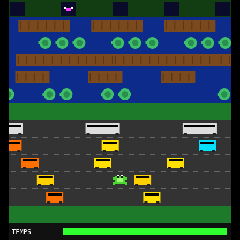
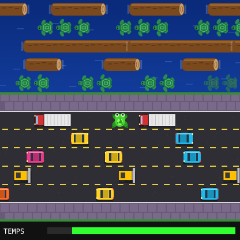
La Granota: un riu que es mou, tortugues amb closca i cotxes de debò
Era tot rectangles i rodones de colors plans: el riu, un blau llis; els
cotxes, un rectangle amb una ratlla negra; la granota, quadrats verds.

Ara el riu té ones que corren, els troncs tenen escorça i anells a les
puntes, les tortugues tenen closca, cap i aletes que neden, i quan es
submergeixen només se'n veuen les bombolles. La carretera és d'asfalt
amb ratlles grogues, i els cotxes, els camions i els tractors tenen
vidres, rodes, fars i llums de darrere, i miren cap on van. Les casetes
d'arribada són badies amb un nenúfar dins d'una bardissa, la mosca té
ales, i la granota mira cap on salta i estira les potes. Les mides de
tot són les mateixes.

Claude-Session: https://claude.ai/code/session_01KrPPCHVvtTXjrWEZj9T731

diff --git a/frogger.html b/frogger.html
@@ -85,7 +85,7 @@ const LANES=[
   {row:10,kind:'dozer',  len:1, dir: 1, sp:0.030, n:3},
   {row:11,kind:'car',    len:1, dir:-1, sp:0.045, n:3}
 ];
-const CARCOL={car:['#ffe000','#00e0ff','#ff7000'],truck:['#dddddd'],dozer:['#ffd000']};
+const CARCOL={car:['#ffd020','#20b8e8','#ff6a20','#e83a8a'],truck:['#dddddd'],dozer:['#ffc000']};
 
 let score=0,level=1,lives=3,state='play',paused=false,extraGiven=false;
 let homes,frog,timeLeft,maxRow,fly,lanes,startTime;
@@ -180,6 +180,7 @@ function hop(dx,dy){
   const nrow=frog.row+dy, nx=frog.x+dx*CELL;
   if(nrow>12||nrow<0||nx<CELL/2-1||nx>W-CELL/2+1)return;
   frog.hop={fx:frog.x,fy:rowY(frog.row),tx:nx,ty:rowY(nrow),t:0,row:nrow};
+  frog.ang=dy<0?0:dy>0?Math.PI:dx>0?Math.PI/2:-Math.PI/2;   // mira cap on salta
   sndHop();
 }
 function landing(){
@@ -236,40 +237,101 @@ function update(dt){
 }
 
 // ===== DIBUIX =====
-function drawFrog(px,py,squash){
+// Vist des de dalt: el riu amb ones que corren, troncs amb escorça i anells
+// a les puntes, tortugues amb closca que neden, una carretera d'asfalt amb
+// cotxes, camions i tractors de debò (amb vidres, rodes i llums), i la
+// granota mira cap on salta. Abans eren rectangles i rodones.
+function drawFrog(px,py,squash,ang=0,salta=0){
+  const cy=py+CELL/2;
   if(squash){
-    x.fillStyle='#ff4040';x.beginPath();x.arc(px,py+16,10,0,6.283);x.fill();
-    x.fillStyle='#fff';x.font='12px monospace';x.textAlign='center';x.fillText('✱',px,py+20);
+    // aixafada o ofegada: una taca i uns cercles
+    x.fillStyle='rgba(60,200,60,.85)';
+    for(const[dx,dy,r]of[[0,0,9],[-8,-5,4],[8,-6,4],[-7,7,4],[8,6,4]]){x.beginPath();x.arc(px+dx,cy+dy,r,0,7);x.fill()}
+    x.fillStyle='#fff';x.beginPath();x.arc(px-3,cy-2,2.5,0,7);x.arc(px+3,cy-2,2.5,0,7);x.fill();
     return;
   }
-  const g='#4ad830';
-  x.fillStyle=g;
-  x.fillRect(px-9,py+9,18,14);          // cos
-  x.fillRect(px-13,py+11,4,5);x.fillRect(px+9,py+11,4,5);   // potes davanteres
-  x.fillRect(px-13,py+19,4,6);x.fillRect(px+9,py+19,4,6);   // potes del darrere
-  x.fillStyle='#9fff70';x.fillRect(px-6,py+12,12,7);
-  x.fillStyle='#fff';x.fillRect(px-6,py+7,5,5);x.fillRect(px+1,py+7,5,5);
-  x.fillStyle='#000';x.fillRect(px-5,py+9,3,3);x.fillRect(px+2,py+9,3,3);
+  x.save();x.translate(px,cy);x.rotate(ang);
+  const e=salta?6:0;
+  // potes: les del darrere s'estiren quan salta
+  x.fillStyle='#2a9a20';
+  x.beginPath();x.ellipse(-9,7+e,4,6+e,.5,0,7);x.fill();x.beginPath();x.ellipse(9,7+e,4,6+e,-.5,0,7);x.fill();
+  x.beginPath();x.ellipse(-9,-5,3,5,-.6,0,7);x.fill();x.beginPath();x.ellipse(9,-5,3,5,.6,0,7);x.fill();
+  x.fillStyle='#1a7a14';for(const s of[-1,1]){x.fillRect(s*12-2,11+e*1.6,4,3);x.fillRect(s*11-2,-10,3,3)}
+  // el cos, amb taques
+  x.fillStyle='#4ad830';x.beginPath();x.ellipse(0,1,9,11,0,0,7);x.fill();
+  x.fillStyle='#8aff60';x.beginPath();x.ellipse(0,3,5,6,0,0,7);x.fill();
+  x.fillStyle='#2a9a20';x.beginPath();x.arc(-4,5,1.5,0,7);x.arc(4,7,1.5,0,7);x.arc(0,-2,1.3,0,7);x.fill();
+  // els ulls, a dalt de tot
+  for(const s of[-1,1]){x.fillStyle='#4ad830';x.beginPath();x.arc(s*5,-8,4,0,7);x.fill();
+    x.fillStyle='#fff';x.beginPath();x.arc(s*5,-8.5,2.8,0,7);x.fill();x.fillStyle='#000';x.beginPath();x.arc(s*5,-9,1.5,0,7);x.fill()}
+  x.restore();
+}
+// un vehicle vist des de dalt, mirant cap a on va (dir 1: a la dreta)
+function drawVehicle(kind,o,y,col,dir){
+  const x0=o.x,w=o.w,y0=y+6,h=CELL-12;
+  x.save();x.translate(x0+w/2,y+CELL/2);x.scale(dir,1);x.translate(-(x0+w/2),-(y+CELL/2));
+  // l'ombra
+  x.fillStyle='rgba(0,0,0,.35)';x.fillRect(x0+2,y0+3,w-2,h);
+  if(kind==='truck'){
+    // remolc i cabina
+    x.fillStyle='#2a2a2a';x.fillRect(x0+4,y0-2,6,3);x.fillRect(x0+4,y0+h-1,6,3);x.fillRect(x0+w-14,y0-2,6,3);x.fillRect(x0+w-14,y0+h-1,6,3);
+    x.fillStyle='#e8e8e8';x.fillRect(x0+1,y0,w-18,h);
+    x.fillStyle='#c0c0c0';for(let i=x0+5;i<x0+w-18;i+=6)x.fillRect(i,y0+1,1,h-2);
+    x.fillStyle='#d83030';x.fillRect(x0+w-16,y0+1,14,h-2);
+    x.fillStyle='#8ad0ff';x.fillRect(x0+w-6,y0+3,3,h-6);
+    x.fillStyle='#ffe080';x.fillRect(x0+w-2,y0+1,2,3);x.fillRect(x0+w-2,y0+h-4,2,3);
+  }else if(kind==='dozer'){
+    // un tractor amb la pala al davant
+    x.fillStyle='#2a2a2a';x.fillRect(x0+3,y0-2,10,4);x.fillRect(x0+3,y0+h-2,10,4);x.fillRect(x0+16,y0,6,3);x.fillRect(x0+16,y0+h-3,6,3);
+    x.fillStyle=col;x.fillRect(x0+2,y0+2,w-10,h-4);
+    x.fillStyle='#3a3a3a';x.fillRect(x0+5,y0+5,8,h-10);
+    x.fillStyle='#bdbdbd';x.fillRect(x0+w-6,y0-3,4,h+6);x.fillStyle='#8a8a8a';x.fillRect(x0+w-8,y0+2,2,h-4);
+  }else{
+    // un cotxe: carrosseria, vidres, rodes i fars
+    x.fillStyle='#1a1a1a';x.fillRect(x0+4,y0-2,6,3);x.fillRect(x0+4,y0+h-1,6,3);x.fillRect(x0+w-10,y0-2,6,3);x.fillRect(x0+w-10,y0+h-1,6,3);
+    x.fillStyle=col;x.beginPath();x.roundRect(x0+1,y0,w-2,h,4);x.fill();
+    x.fillStyle='rgba(255,255,255,.35)';x.fillRect(x0+3,y0+1,w-8,2);
+    x.fillStyle='#24344a';x.fillRect(x0+w-12,y0+3,4,h-6);x.fillRect(x0+6,y0+3,3,h-6);
+    x.fillStyle='rgba(0,0,0,.2)';x.fillRect(x0+10,y0+3,w-22,h-6);
+    x.fillStyle='#fff6b0';x.fillRect(x0+w-3,y0+1,2,3);x.fillRect(x0+w-3,y0+h-4,2,3);
+    x.fillStyle='#ff4040';x.fillRect(x0+1,y0+1,1.5,3);x.fillRect(x0+1,y0+h-4,1.5,3);
+  }
+  x.restore();
 }
 function draw(){
-  // fons per zones
+  const ara=performance.now();
   x.fillStyle='#000';x.fillRect(0,0,W,H+BAR);
-  x.fillStyle='#0d2b8a';x.fillRect(0,rowY(1),W,CELL*5);      // riu
-  x.fillStyle='#1d7a2a';x.fillRect(0,rowY(6),W,CELL);        // mitjana
-  x.fillStyle='#333';x.fillRect(0,rowY(7),W,CELL*5);         // carretera
-  x.fillStyle='#1d7a2a';x.fillRect(0,rowY(12),W,CELL);       // sortida
-  // marques de la carretera
-  x.fillStyle='#666';
+  // el riu, amb ones que corren
+  const gr=x.createLinearGradient(0,rowY(1),0,rowY(6));gr.addColorStop(0,'#0a2a7a');gr.addColorStop(1,'#123c9a');
+  x.fillStyle=gr;x.fillRect(0,rowY(1),W,CELL*5);
+  x.fillStyle='rgba(140,190,255,.22)';
+  for(let r=1;r<=5;r++)for(let i=0;i<8;i++){const wx=((i*61+r*37+ara*.02*(r%2?1:-1))%(W+30)+W+30)%(W+30)-15;x.fillRect(wx,rowY(r)+6+(i*11)%20,12,1.5)}
+  // la mitjana i la sortida: voravia de rajoles amb herba
+  for(const r of[6,12]){
+    x.fillStyle='#6a5a7a';x.fillRect(0,rowY(r),W,CELL);
+    x.fillStyle='#7a6a8a';for(let i=0;i<COLS*2;i++)x.fillRect(i*16+1,rowY(r)+1,14,CELL/2-2),x.fillRect(i*16+9,rowY(r)+CELL/2+1,14,CELL/2-2);
+    x.fillStyle='#3a8a3a';x.fillRect(0,rowY(r)+(r===6?0:CELL-4),W,4);
+  }
+  // la carretera: asfalt, vorals i ratlles discontínues
+  x.fillStyle='#2e2e34';x.fillRect(0,rowY(7),W,CELL*5);
+  x.fillStyle='rgba(255,255,255,.04)';for(let i=0;i<70;i++)x.fillRect((i*53)%W,rowY(7)+(i*29)%(CELL*5),2,2);
+  x.fillStyle='#d8d8d8';x.fillRect(0,rowY(7),W,2);x.fillRect(0,rowY(12)-2,W,2);
+  x.fillStyle='#e8d040';
   for(let r=8;r<=11;r++)for(let i=0;i<COLS*2;i++)x.fillRect(i*20+4,rowY(r)-1,10,2);
-  // casetes d'arribada
-  x.fillStyle='#123d12';x.fillRect(0,0,W,CELL);
+  // les casetes d'arribada: una bardissa amb cinc badies d'aigua i un nenúfar
+  x.fillStyle='#1d6a24';x.fillRect(0,0,W,CELL);
+  x.fillStyle='#2a8a30';for(let i=0;i<W;i+=8)x.beginPath(),x.arc(i+4,4+(i%16?2:0),6,0,7),x.fill();
   for(let i=0;i<5;i++){
     const cx=HOME_COLS[i]*CELL;
-    x.fillStyle='#0a0a2a';x.fillRect(cx+2,4,CELL-4,CELL-6);
-    if(homes[i])drawFrog(cx+CELL/2,-2,false);
+    x.fillStyle='#0d2b7a';x.fillRect(cx+3,6,CELL-6,CELL-6);
+    x.fillStyle='#3aa04a';x.beginPath();x.arc(cx+CELL/2,CELL/2+4,9,.4,Math.PI*2-.1);x.lineTo(cx+CELL/2,CELL/2+4);x.fill();
+    if(homes[i])drawFrog(cx+CELL/2,2,false);
     else if(fly&&fly.idx===i){
-      x.fillStyle='#ff40ff';x.fillRect(cx+CELL/2-5,14,10,7);
-      x.fillStyle='#fff';x.fillRect(cx+CELL/2-8,13,4,3);x.fillRect(cx+CELL/2+4,13,4,3);
+      // la mosca, amb ales que bateguen
+      const fx=cx+CELL/2,fy=17,b=Math.floor(ara/60)%2;
+      x.fillStyle='rgba(220,240,255,.8)';x.beginPath();x.ellipse(fx-4,fy-2-b,4,2.5,-.4,0,7);x.ellipse(fx+4,fy-2-b,4,2.5,.4,0,7);x.fill();
+      x.fillStyle='#2a2a2a';x.beginPath();x.ellipse(fx,fy,3,5,0,0,7);x.fill();
+      x.fillStyle='#ff3030';x.fillRect(fx-2,fy-5,1.5,1.5);x.fillRect(fx+.5,fy-5,1.5,1.5);
     }
   }
   // objectes de cada carril
@@ -277,36 +339,51 @@ function draw(){
     for(const o of laneObjs(l)){
       const y=rowY(l.row);
       if(l.kind==='log'){
-        x.fillStyle='#7a4a1e';x.fillRect(o.x,y+5,o.w,CELL-10);
-        x.fillStyle='#5c3616';for(let i=0;i<o.w;i+=16)x.fillRect(o.x+i+3,y+8,2,CELL-16);
+        // un tronc: escorça, anells a les puntes i una mica d'aigua que esquitxa
+        x.fillStyle='rgba(255,255,255,.18)';x.fillRect(o.x-3,y+8,3,CELL-16);x.fillRect(o.x+o.w,y+8,3,CELL-16);
+        x.fillStyle='#7a4a1e';x.beginPath();x.roundRect(o.x,y+5,o.w,CELL-10,8);x.fill();
+        x.fillStyle='#9a6430';x.fillRect(o.x+4,y+7,o.w-8,3);
+        x.fillStyle='#5c3616';for(let i=8;i<o.w-8;i+=11)x.fillRect(o.x+i,y+12+(i%3),7,1.5);
+        x.fillStyle='#c8a070';x.beginPath();x.ellipse(o.x+o.w-5,y+CELL/2,4,CELL/2-6,0,0,7);x.fill();
+        x.strokeStyle='#8a6030';x.lineWidth=1;x.beginPath();x.ellipse(o.x+o.w-5,y+CELL/2,2,5,0,0,7);x.stroke();
       }else if(l.kind==='turtle'){
         const d=turtleDown(l,o.i);
-        if(d===2)continue;
-        for(let i=0;i<l.len;i++){
-          const tx=o.x+i*CELL+CELL/2;
-          x.fillStyle=d===1?'#2a7a4a':'#3fbf6a';
-          x.beginPath();x.arc(tx,y+CELL/2,11,0,6.283);x.fill();
-          x.fillStyle=d===1?'#1d5c36':'#2a8f4e';
-          x.beginPath();x.arc(tx,y+CELL/2,6,0,6.283);x.fill();
-          x.fillStyle=d===1?'#2a7a4a':'#3fbf6a';x.fillRect(tx-13,y+CELL/2-3,4,6);
+        if(d===2){
+          // sota l'aigua: només es veuen les bombolles
+          x.fillStyle='rgba(180,220,255,.5)';for(let i=0;i<l.len;i++){const tx=o.x+i*CELL+CELL/2;x.beginPath();x.arc(tx-3,y+CELL/2,2,0,7);x.arc(tx+4,y+CELL/2+3,1.5,0,7);x.fill()}
+          continue;
         }
+        x.globalAlpha=d===1?.55:1;
+        for(let i=0;i<l.len;i++){
+          const tx=o.x+i*CELL+CELL/2,ty=y+CELL/2,nada=Math.sin(ara/180+i)*2;
+          // aletes, cap i closca (miren cap on neden: a l'esquerra)
+          x.fillStyle='#2a8a50';
+          x.beginPath();x.ellipse(tx-6,ty-9-nada,3,5,.6,0,7);x.ellipse(tx-6,ty+9+nada,3,5,-.6,0,7);x.ellipse(tx+7,ty-8+nada,2.5,4,-.6,0,7);x.ellipse(tx+7,ty+8-nada,2.5,4,.6,0,7);x.fill();
+          x.beginPath();x.arc(tx-12,ty,4,0,7);x.fill();
+          x.fillStyle='#000';x.fillRect(tx-14,ty-2,1.5,1.5);x.fillRect(tx-14,ty+1,1.5,1.5);
+          x.fillStyle=d===1?'#2a6a4a':'#1d7a40';x.beginPath();x.ellipse(tx,ty,10,9,0,0,7);x.fill();
+          x.strokeStyle=d===1?'#4a8a6a':'#5ac078';x.lineWidth=1.2;
+          x.beginPath();x.moveTo(tx-6,ty-4);x.lineTo(tx,ty-7);x.lineTo(tx+6,ty-4);x.lineTo(tx+6,ty+4);x.lineTo(tx,ty+7);x.lineTo(tx-6,ty+4);x.closePath();x.stroke();
+          x.beginPath();x.moveTo(tx-3,ty-2);x.lineTo(tx+3,ty-2);x.lineTo(tx+3,ty+2);x.lineTo(tx-3,ty+2);x.closePath();x.stroke();
+        }
+        x.globalAlpha=1;
       }else{
         const col=CARCOL[l.kind][o.i%CARCOL[l.kind].length];
-        x.fillStyle=col;x.fillRect(o.x,y+6,o.w,CELL-12);
-        x.fillStyle='#000';x.fillRect(o.x+3,y+9,o.w-6,4);
-        x.fillStyle='#222';x.fillRect(o.x+2,y+CELL-8,6,4);x.fillRect(o.x+o.w-8,y+CELL-8,6,4);
+        drawVehicle(l.kind,o,y,col,l.dir);
       }
     }
   }
   // granota
   if(state!=='over'){
-    const px=frog.hop?frog.hop.fx+(frog.hop.tx-frog.hop.fx)*Math.min(1,frog.hop.t/130):frog.x;
-    const py=frog.hop?frog.hop.fy+(frog.hop.ty-frog.hop.fy)*Math.min(1,frog.hop.t/130):rowY(frog.row);
-    drawFrog(px,py,state==='dying');
+    const k=frog.hop?Math.min(1,frog.hop.t/130):0;
+    const px=frog.hop?frog.hop.fx+(frog.hop.tx-frog.hop.fx)*k:frog.x;
+    const py=frog.hop?frog.hop.fy+(frog.hop.ty-frog.hop.fy)*k:rowY(frog.row);
+    drawFrog(px,py,state==='dying',frog.ang||0,frog.hop?Math.sin(k*Math.PI):0);
   }
   // barra de temps
   x.fillStyle='#111';x.fillRect(0,H,W,BAR);
   const total=Math.max(18,32-level*1.5), frac=Math.max(0,timeLeft/total);
+  x.fillStyle='#2a2a2a';x.fillRect(82,H+10,W-90,12);
   x.fillStyle=frac<0.3?'#ff3030':'#30ff30';
   x.fillRect(W-8-(W-90)*frac,H+10,(W-90)*frac,12);
   x.fillStyle='#fff';x.font='12px monospace';x.textAlign='left';x.fillText('TEMPS',6,H+21);

diff --git a/sw.js b/sw.js
@@ -1,4 +1,4 @@
-const CACHE = 'jocs-v143';
+const CACHE = 'jocs-v144';
 const FILES = [
   '/Jocs/',
   '/Jocs/index.html',

diff --git a/CLAUDE.md b/CLAUDE.md
@@ -180,6 +180,11 @@ colors perquè les màquines eren així.
   apagada al fons. **Els personatges són nostres**: un obrer amb casc groc i
   armilla, i no el de la gorra vermella i la granota blava, que és d'una
   empresa viva; i una noia de verd que diu AJUDA!
+- **La Granota**: vist des de dalt, amb ones al riu, troncs amb escorça i
+  anells, tortugues amb closca que neden (i bombolles quan són a sota),
+  asfalt amb ratlles grogues i vehicles amb vidres, rodes i llums
+  (`drawVehicle`, que mira cap on va el carril). La granota mira cap on
+  salta (`frog.ang`) i estira les potes.
 
 ## L'Atletisme: com es dibuixa
 
